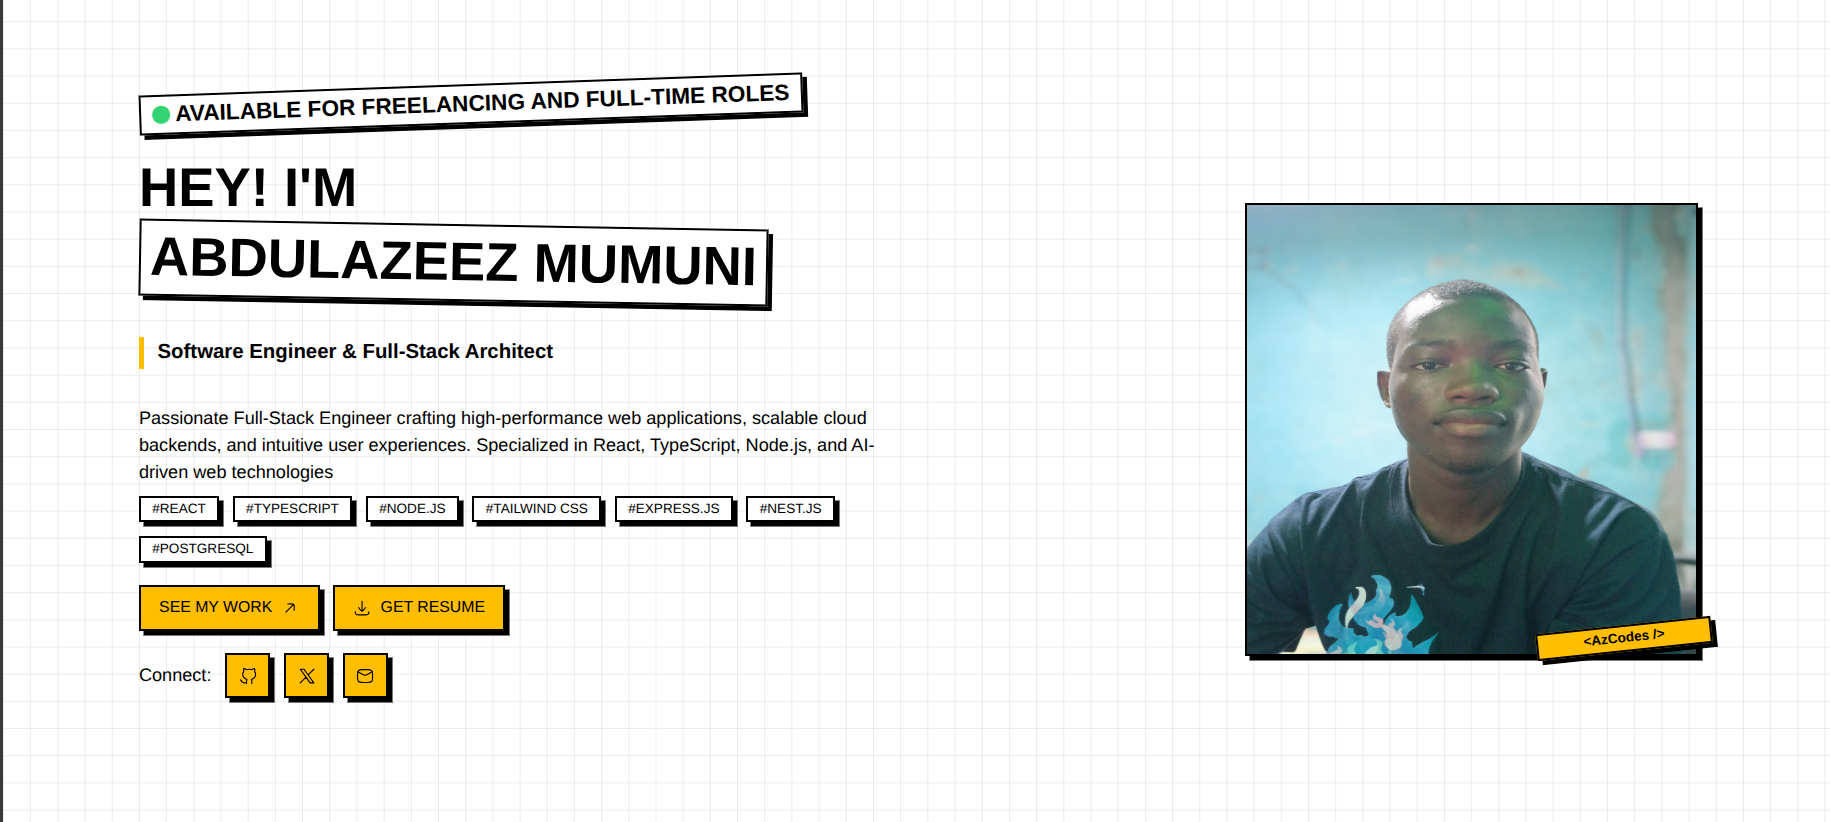
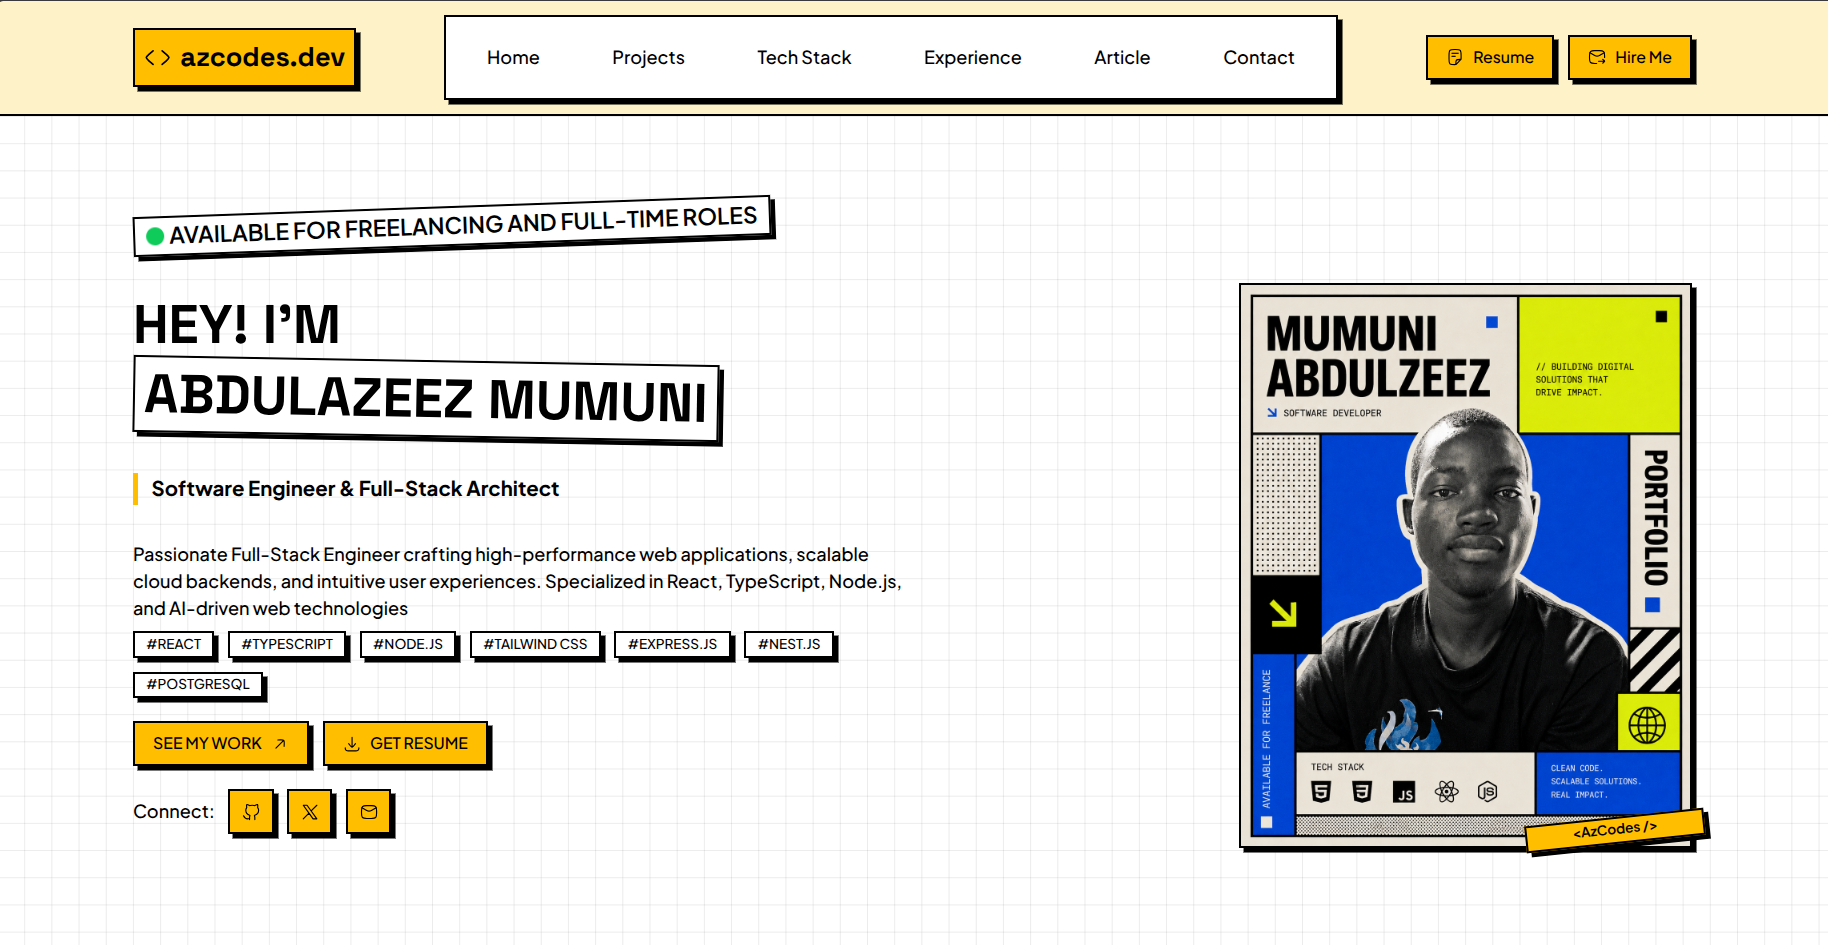
feat: update HeroSection image to PNG format and remove old JPG file

diff --git a/app/components/HeroSection.tsx b/app/components/HeroSection.tsx
@@ -113,8 +113,8 @@ export default function HeroSection() {
             {"<AzCodes />"}
           </Badge>
           <img
-            className="neo-box  w-100 h-100"
-            src="/images/azcodes-mumuni-abdulazeez.jpg"
+            className="neo-box  w-100"
+            src="/images/azcodes-mumuni-abdulazeez.png"
             alt="Mumuni Abdulazeez AzCodes"
           />
         </div>
